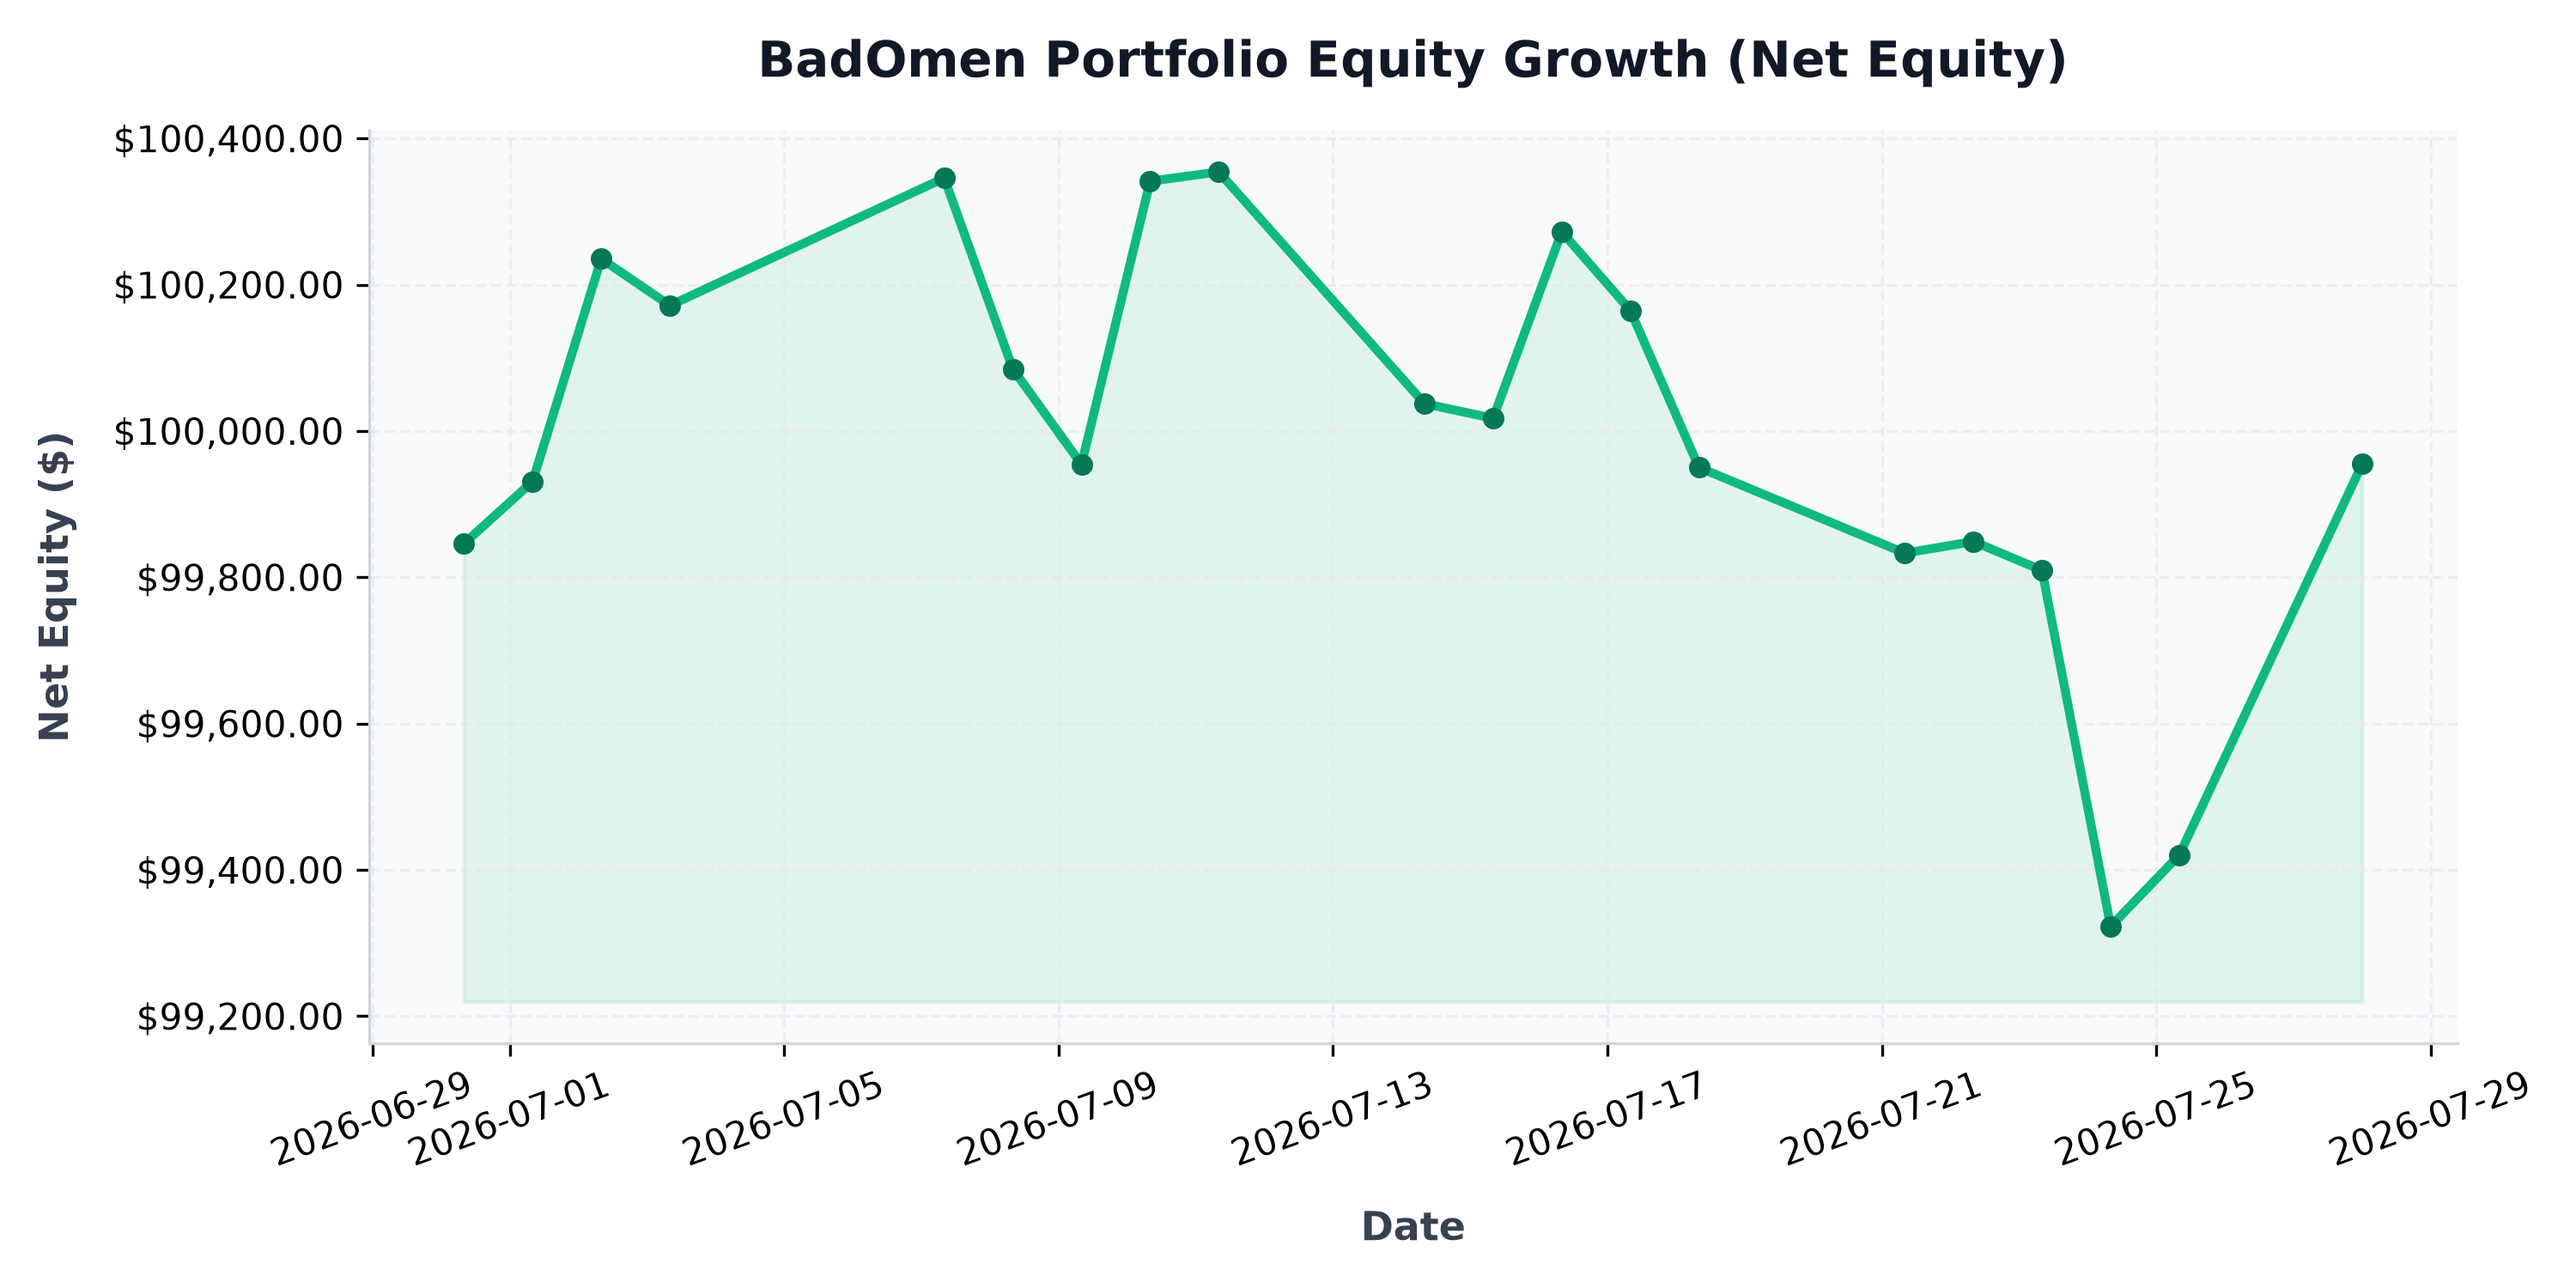
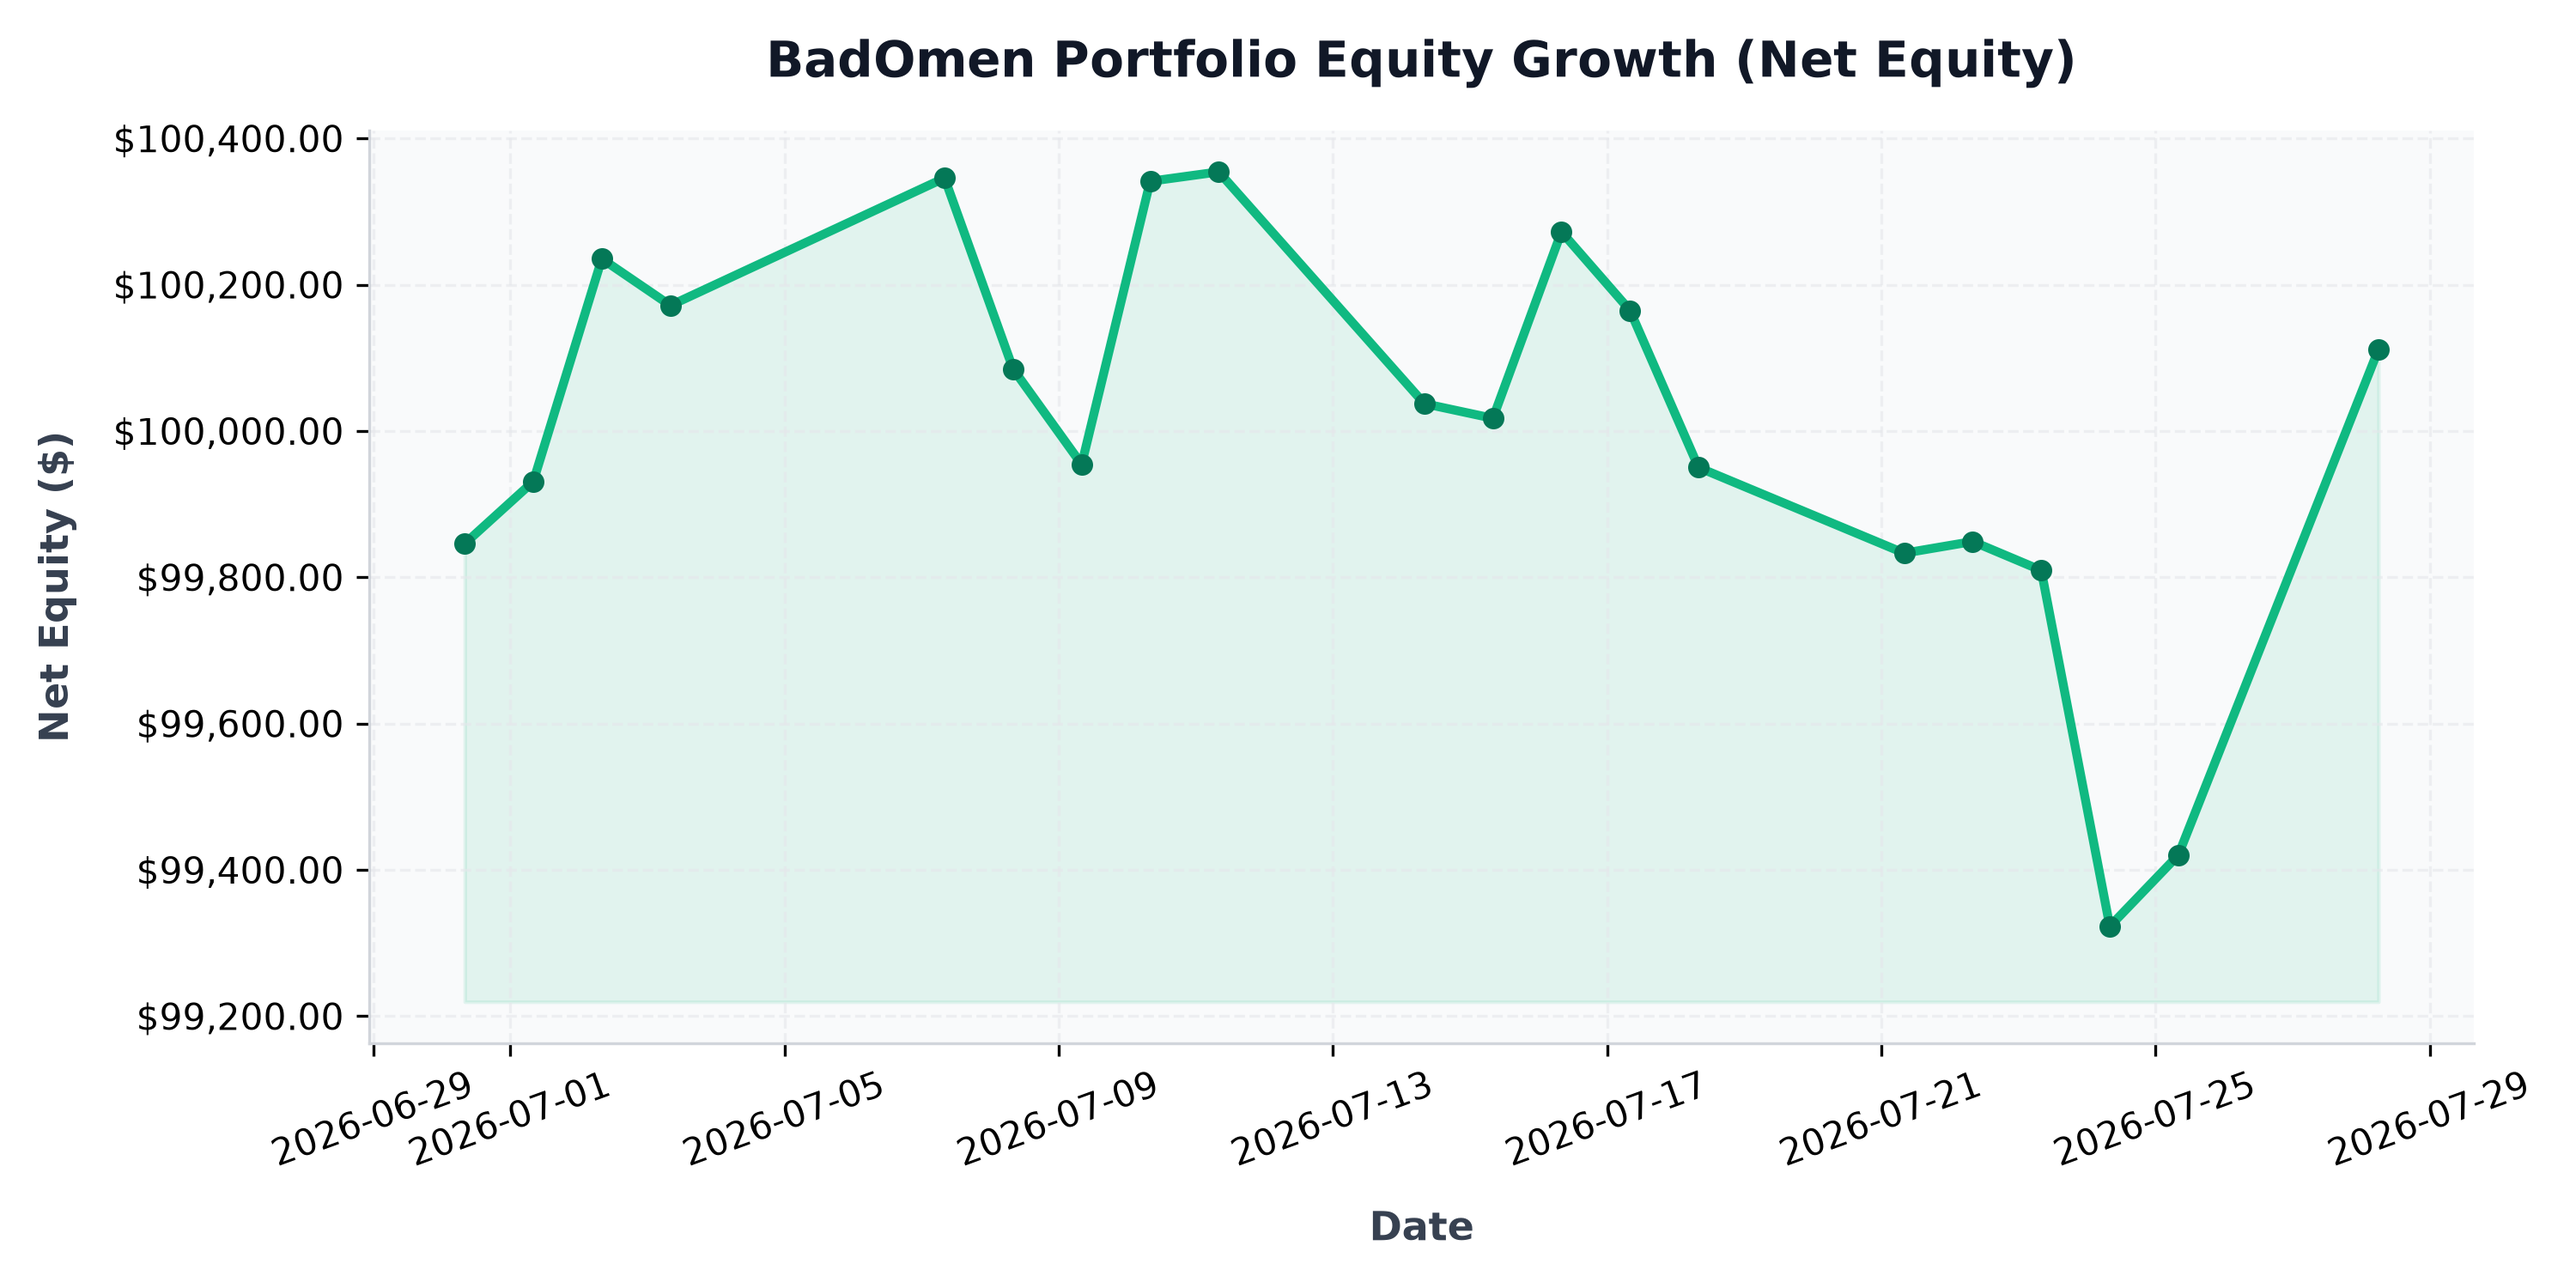
auto: daily portfolio status update - 2026-07-28 06:05:13

diff --git a/src/content/posts/portfolio-performance.md b/src/content/posts/portfolio-performance.md
@@ -1,6 +1,6 @@
 ---
 title: "BadOmen Algorithmic Portfolio Performance & PnL Report"
-pubDatetime: 2026-07-28T00:00:16.820378+08:00
+pubDatetime: 2026-07-28T06:05:13.878205+08:00
 description: "Live performance metrics, active holdings, and historic equity curve for the BadOmen automated paper trading portfolio."
 featured: true
 draft: false
@@ -16,11 +16,11 @@ Welcome to the live performance dashboard for **BadOmen**, our automated algorit
 ## 📊 Portfolio Summary
 | Performance Metric | Value | description |
 | :--- | :--- | :--- |
-| **Net Portfolio Equity** | **$99,954.85** | Total current liquidation value of cash and stock holdings |
-| **Total Unrealized P&L** | 🔴 **$-34.84** (-0.03%) | Total return of current open holdings |
+| **Net Portfolio Equity** | **$100,111.78** | Total current liquidation value of cash and stock holdings |
+| **Total Unrealized P&L** | 🟢 **+$122.96** (+0.12%) | Total return of current open holdings |
 | **Cash Balance** | $72,015.83 | Idle reserve currency available for limit orders |
-| **Buying Power** | $360,654.16 | Margin-backed buying power for entry allocations |
-| **Report Updated** | `2026-07-28 00:00:16 (SGT)` | Timestamp of daily execution and sync run |
+| **Buying Power** | $361,093.58 | Margin-backed buying power for entry allocations |
+| **Report Updated** | `2026-07-28 06:05:13 (SGT)` | Timestamp of daily execution and sync run |
 
 ## 📈 Net Equity Growth Curve
 The chart below illustrates the historical performance of the account starting from our baseline capital funding of $100,000.00.
@@ -35,31 +35,31 @@ The chart below illustrates the exposure of our currently held active positions 
 ## 💼 Current Position Holdings
 | Ticker | Industry | Shares Owned | Average Entry Cost | Current Price | Unrealized P&L | Return (%) |
 | :--- | :--- | :--- | :--- | :--- | :--- | :--- |
-| **AN** | Auto & Truck Dealerships | 5 | $188.51 | $212.08 | 🟢 +$117.86 | +12.50% |
-| **AVGO** | Semiconductors | 1 | $385.71 | $381.26 | 🔴 $-4.45 | -1.15% |
-| **BVN** | Other Precious Metals & Mining | 32 | $31.87 | $30.96 | 🔴 $-29.28 | -2.87% |
-| **CELH** | Beverages - Non-Alcoholic | 33 | $29.71 | $28.32 | 🔴 $-45.96 | -4.69% |
-| **DUOL** | Software - Application | 14 | $131.04 | $131.51 | 🟢 +$6.52 | +0.36% |
-| **FIS** | Information Technology Services | 23 | $41.79 | $43.08 | 🟢 +$29.55 | +3.08% |
-| **GDDY** | Software - Infrastructure | 12 | $76.21 | $97.52 | 🟢 +$255.72 | +27.96% |
-| **GDS** | Information Technology Services | 30 | $32.77 | $30.96 | 🔴 $-54.15 | -5.51% |
-| **GGAL** | Banks - Regional | 17 | $56.04 | $49.80 | 🔴 $-105.99 | -11.12% |
-| **GOOGL** | Internet Content & Information | 3 | $319.44 | $328.74 | 🟢 +$27.89 | +2.91% |
-| **GPI** | Auto & Truck Dealerships | 3 | $316.15 | $337.26 | 🟢 +$63.33 | +6.68% |
-| **ITRI** | Scientific & Technical Instruments | 12 | $81.80 | $81.94 | 🟢 +$1.68 | +0.17% |
-| **KBR** | Engineering & Construction | 27 | $36.23 | $36.87 | 🟢 +$17.20 | +1.76% |
-| **META** | Internet Content & Information | 1 | $568.17 | $601.30 | 🟢 +$33.13 | +5.83% |
-| **NESR** | Oil & Gas Equipment & Services | 34 | $28.74 | $26.96 | 🔴 $-60.52 | -6.19% |
-| **NU** | Banks - Regional | 85 | $11.60 | $14.51 | 🟢 +$247.05 | +25.06% |
-| **ON** | Semiconductors | 10 | $90.45 | $86.43 | 🔴 $-40.25 | -4.45% |
-| **ORCL** | Software - Infrastructure | 5 | $181.95 | $119.24 | 🔴 $-313.55 | -34.47% |
-| **PATH** | Software - Infrastructure | 187 | $10.42 | $11.47 | 🟢 +$197.22 | +10.12% |
-| **PYPL** | Credit Services | 17 | $56.05 | $56.34 | 🟢 +$4.93 | +0.52% |
-| **QCOM** | Semiconductors | 15 | $193.68 | $166.68 | 🔴 $-405.07 | -13.94% |
-| **SMCI** | Computer Hardware | 33 | $29.25 | $28.91 | 🔴 $-11.22 | -1.16% |
-| **T** | Telecom Services | 47 | $20.85 | $24.42 | 🟢 +$167.81 | +17.12% |
-| **WEN** | Restaurants | 257 | $8.02 | $7.37 | 🔴 $-167.98 | -8.15% |
-| **ZG** | Internet Content & Information | 31 | $31.35 | $32.44 | 🟢 +$33.69 | +3.47% |
+| **AN** | Auto & Truck Dealerships | 5 | $188.51 | $212.20 | 🟢 +$118.46 | +12.57% |
+| **AVGO** | Semiconductors | 1 | $385.71 | $383.57 | 🔴 $-2.14 | -0.56% |
+| **BVN** | Other Precious Metals & Mining | 32 | $31.87 | $31.72 | 🔴 $-4.96 | -0.49% |
+| **CELH** | Beverages - Non-Alcoholic | 33 | $29.71 | $28.80 | 🔴 $-30.26 | -3.09% |
+| **DUOL** | Software - Application | 14 | $131.04 | $133.00 | 🟢 +$27.38 | +1.49% |
+| **FIS** | Information Technology Services | 23 | $41.79 | $43.16 | 🟢 +$31.51 | +3.28% |
+| **GDDY** | Software - Infrastructure | 12 | $76.21 | $96.41 | 🟢 +$242.40 | +26.51% |
+| **GDS** | Information Technology Services | 30 | $32.77 | $31.39 | 🔴 $-41.40 | -4.21% |
+| **GGAL** | Banks - Regional | 17 | $56.04 | $49.76 | 🔴 $-106.75 | -11.21% |
+| **GOOGL** | Internet Content & Information | 3 | $319.44 | $327.44 | 🟢 +$24.00 | +2.50% |
+| **GPI** | Auto & Truck Dealerships | 3 | $316.15 | $337.43 | 🟢 +$63.84 | +6.73% |
+| **ITRI** | Scientific & Technical Instruments | 12 | $81.80 | $84.47 | 🟢 +$32.03 | +3.26% |
+| **KBR** | Engineering & Construction | 27 | $36.23 | $36.24 | 🟢 +$0.15 | +0.02% |
+| **META** | Internet Content & Information | 1 | $568.17 | $596.00 | 🟢 +$27.83 | +4.90% |
+| **NESR** | Oil & Gas Equipment & Services | 34 | $28.74 | $26.38 | 🔴 $-80.24 | -8.21% |
+| **NU** | Banks - Regional | 85 | $11.60 | $14.52 | 🟢 +$248.32 | +25.19% |
+| **ON** | Semiconductors | 10 | $90.45 | $89.12 | 🔴 $-13.35 | -1.48% |
+| **ORCL** | Software - Infrastructure | 5 | $181.95 | $120.20 | 🔴 $-308.75 | -33.94% |
+| **PATH** | Software - Infrastructure | 187 | $10.42 | $11.62 | 🟢 +$224.32 | +11.51% |
+| **PYPL** | Credit Services | 17 | $56.05 | $55.98 | 🔴 $-1.14 | -0.12% |
+| **QCOM** | Semiconductors | 15 | $193.68 | $170.37 | 🔴 $-349.72 | -12.04% |
+| **SMCI** | Computer Hardware | 33 | $29.25 | $29.73 | 🟢 +$15.99 | +1.66% |
+| **T** | Telecom Services | 47 | $20.85 | $24.39 | 🟢 +$166.56 | +17.00% |
+| **WEN** | Restaurants | 257 | $8.02 | $7.32 | 🔴 $-180.86 | -8.77% |
+| **ZG** | Internet Content & Information | 31 | $31.35 | $31.99 | 🟢 +$19.74 | +2.03% |
 
 ## 🔴 Recent Realized Trades
 | Ticker | Shares Sold | Entry Price | Exit Price | Strategy Trigger | Realized Return | Exit Date |
